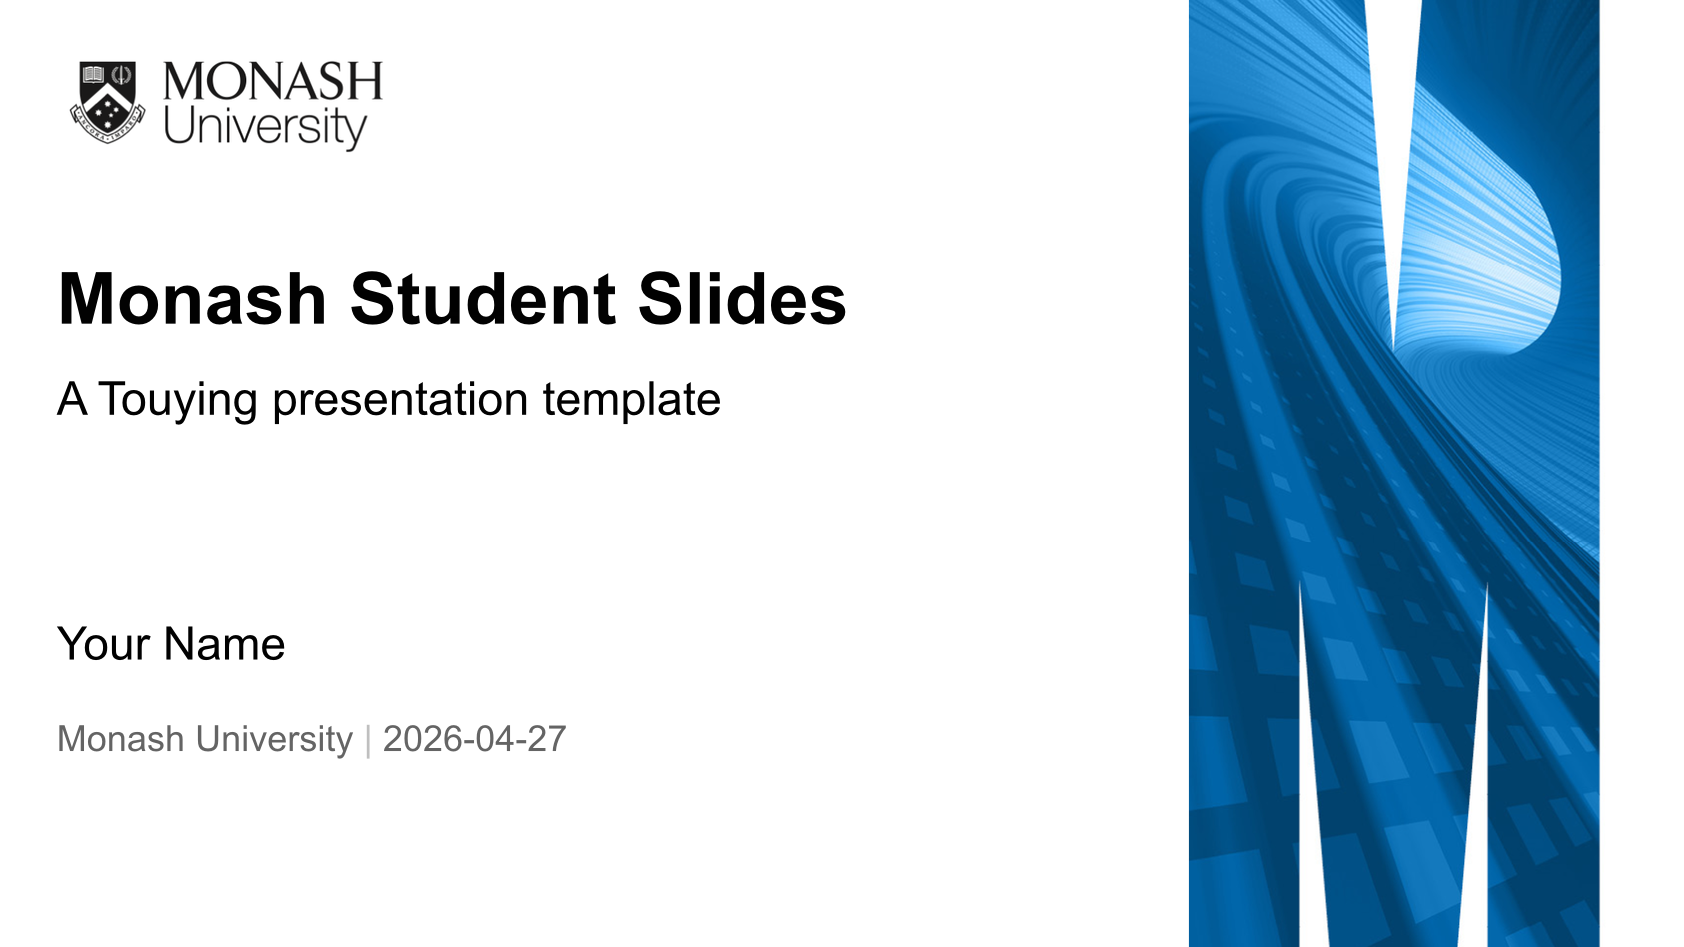
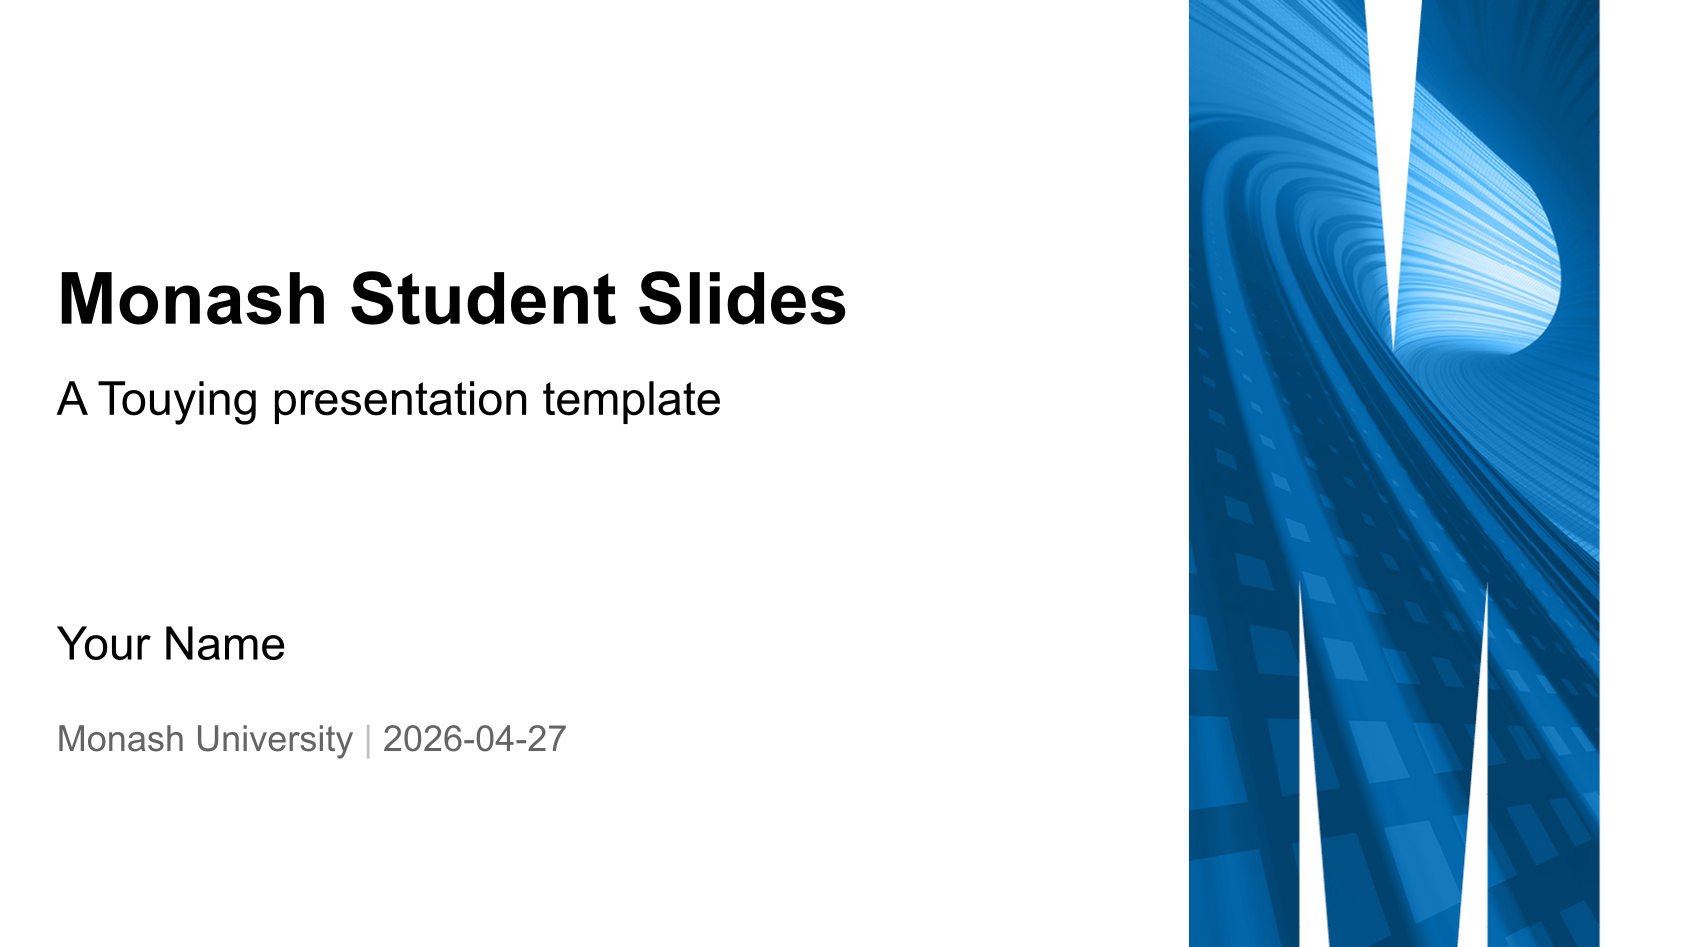
Remove embedded Monash marks from starter background
Typst package reviews treat university logos, crests, and wordmarks as assets that need clear redistribution rights. The starter background is kept for Quarto Monash visual alignment, but the embedded Monash crest and wordmark are removed so the package does not redistribute official Monash marks by default.

Constraint: typst/packages licensing guidance requires clear terms for university logo assets

Rejected: Keep the original Quarto Monash title image | the CC0 source does not settle Monash trademark or brand-use concerns

Rejected: Drop the title background entirely | a logo-free background preserves the starter deck visual quality without bundling marks

Confidence: high

Scope-risk: narrow

Directive: Do not reintroduce Monash logos, crests, or wordmarks into bundled starter assets without explicit redistribution rights

Tested: ./scripts/check.sh

Not-tested: Typst Universe human review outcome

Changed region(s): [[0.0309, 0.0612, 0.247, 0.1531]]

diff --git a/docs/brand-notes.md b/docs/brand-notes.md
@@ -12,8 +12,8 @@ an official Monash University asset.
   reference.
 - Use the full-width blue title bar and Quarto-style footer progress treatment
   for content slides.
-- Do not redraw, stretch, recolour, crop, or otherwise modify Monash logo
-  assets.
+- Do not bundle Monash logo, crest, or wordmark assets in the default starter
+  deck.
 
 ## Current Package Interpretation
 
@@ -22,16 +22,19 @@ The template currently uses:
 - `#1969AA` as the primary blue, matching the Quarto Monash Typst template.
 - `#C14B14` as the Quarto Monash orange accent for progress and list markers.
 - neutral greys for body/footer contrast.
-- no bundled Monash logo in the starter deck; users can provide their own logo
-  asset through the theme configuration when they have appropriate rights.
-- vendored Quarto Monash PNG assets under `template/assets/monash-presentation/`.
-- a title slide using `background/bg-02.png`.
+- no bundled Monash logo, crest, or wordmark in the starter deck; users can
+  provide their own logo asset through the theme configuration when they have
+  appropriate rights.
+- a vendored logo-free Quarto Monash background PNG under
+  `template/assets/monash-presentation/`.
+- a title slide using the logo-free `background/bg-02.png`.
 - full-width Monash blue title bars on content slides.
 - a footer baseline, orange progress bar, and small grey slide number.
 
-The template vendors only the small set of Quarto Monash presentation assets
+The template vendors only the logo-free Quarto Monash presentation background
 needed by the starter deck. If future versions add more background variants,
-document the source repository and keep paths under `template/assets/`.
+document the source repository, remove embedded Monash marks unless explicit
+redistribution rights are available, and keep paths under `template/assets/`.
 
 ## Logo SVG Notes
 
@@ -40,8 +43,8 @@ direct automated download may be blocked. Wikimedia Commons mirrors a
 `Monash University logo.svg` file sourced from that official URL and marks it as
 simple geometry/public domain while also warning that it may be trademarked.
 
-The starter template does not vendor a Monash logo. Users who have appropriate
-rights can provide their own logo asset and pass:
+The starter template does not vendor a Monash logo, crest, or wordmark. Users
+who have appropriate rights can provide their own logo asset and pass:
 
 ```typst
 #show: monash-theme.with(
@@ -50,10 +53,12 @@ rights can provide their own logo asset and pass:
 )
 ```
 
-The Quarto Monash PNG assets are vendored from
+The Quarto Monash background PNG is derived from
 `quarto-monash/presentation/_extensions/presentation/_images/` for visual
-alignment with that template. The upstream Quarto Monash presentation template
-is distributed under the CC0 1.0 Universal public domain dedication.
+alignment with that template. The embedded Monash crest and wordmark have been
+removed from the bundled starter background. The upstream Quarto Monash
+presentation template is distributed under the CC0 1.0 Universal public domain
+dedication.
 
 ## References
 

diff --git a/README.md b/README.md
@@ -115,30 +115,31 @@ The harness compiles the starter template, the example deck, the generated
 The default visual language follows the Typst implementation from
 `quarto-monash/presentation`: a full-page title graphic, full-width Monash blue
 slide title bars, orange square list markers, a light footer baseline, orange
-footer progress, and a small grey slide number. The template vendors the
-background and logo PNG assets used by that design under
+footer progress, and a small grey slide number. The template vendors a
+logo-free background PNG derived from that design under
 `template/assets/monash-presentation/`.
 
 Code blocks use the locked Typst Universe package `@preview/zebraw:0.6.1` with
 a Monash light code block style, and continue to work through ordinary fenced
 raw blocks.
 
-The starter deck does not bundle a Monash logo. Users with appropriate rights
-can pass their own logo through `monash-theme.with(logo: ...)`. The
-`titlegraphic` defaults to `assets/monash-presentation/background/bg-02.png`
-for Quarto Monash visual alignment.
+The starter deck does not bundle Monash logos, crests, or wordmarks. Users with
+appropriate rights can pass their own logo through
+`monash-theme.with(logo: ...)`. The `titlegraphic` defaults to
+`assets/monash-presentation/background/bg-02.png`, a logo-free variant used for
+Quarto Monash visual alignment.
 
 ## Credits
 
 This project is an unofficial student package and is not affiliated with or
 endorsed by Monash University.
 
-The visual direction and bundled presentation background assets are based on
-the Quarto Monash presentation template:
+The visual direction and bundled logo-free presentation background asset are
+based on the Quarto Monash presentation template:
 <https://github.com/quarto-monash/presentation>. That project is distributed
-under the CC0 1.0 Universal public domain dedication. Monash names, logos, and
-marks remain associated with Monash University and should be used according to
-the relevant brand guidance.
+under the CC0 1.0 Universal public domain dedication. Monash names, logos,
+crests, wordmarks, and marks remain associated with Monash University and should
+be used according to the relevant brand guidance.
 
 ## Typst Universe Submission Notes
 

diff --git a/template/assets/README.md b/template/assets/README.md
@@ -3,11 +3,13 @@
 Place presentation-specific assets here.
 
 The template includes a small vendored subset of the Quarto Monash presentation
-assets under `monash-presentation/`.
+assets under `monash-presentation/`. The bundled title background is a
+logo-free variant; the original embedded Monash crest and wordmark are not
+distributed in this starter template.
 The Quarto Monash presentation project is distributed under the CC0 1.0
-Universal public domain dedication. Monash names, logos, and marks remain
-associated with Monash University and should be used according to relevant
-brand guidance.
+Universal public domain dedication. Monash names, logos, crests, wordmarks, and
+marks remain associated with Monash University and should be used according to
+relevant brand guidance.
 
 The starter deck passes the title background image to the theme:
 
